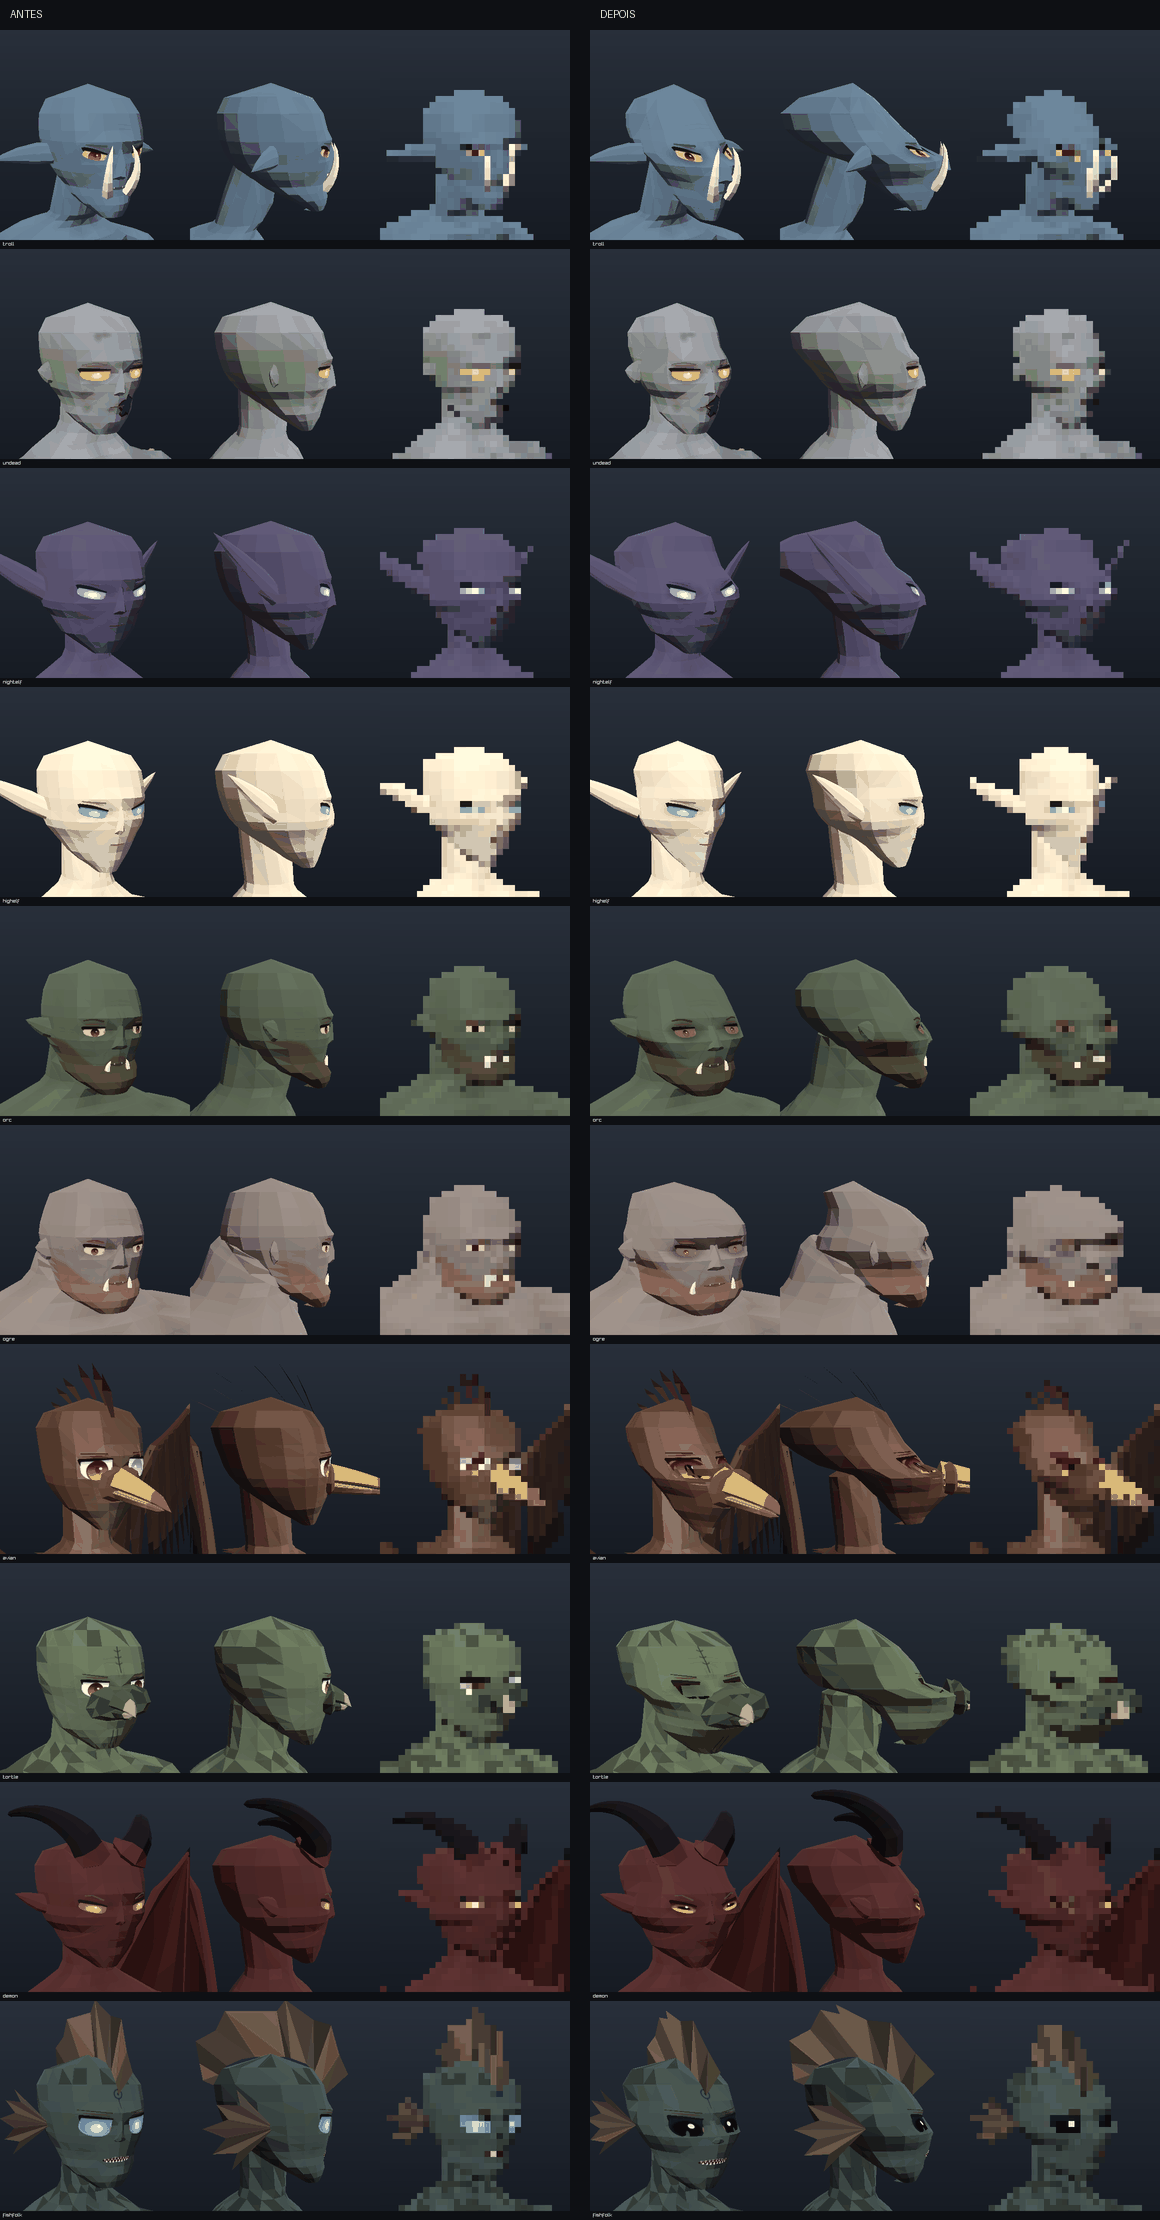
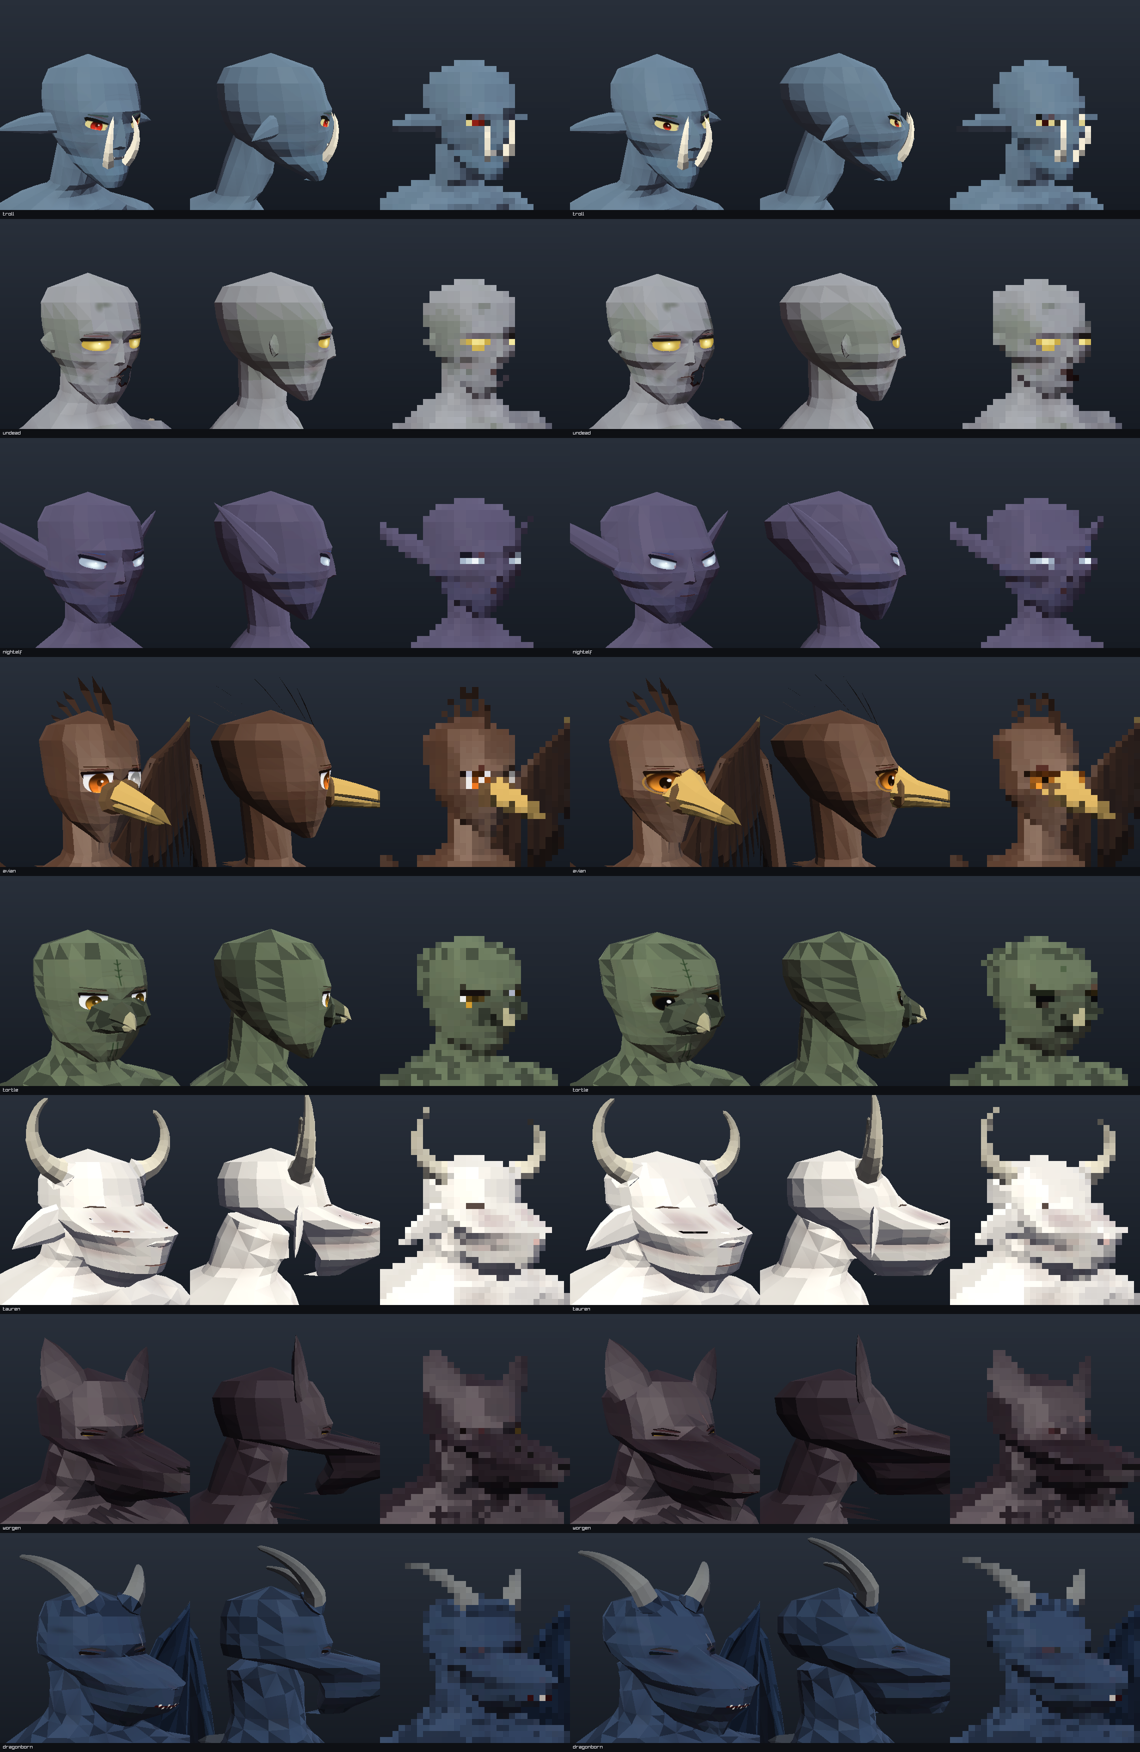
Cohesive skulls: snouts grow from the skull, round avian skull with a rooted beak, gentler forms
Snouted heads get a nose bridge from the brow onto the snout, the jaw stays joined to
the neck and the socket/cheek grooves no longer cut a trench across the muzzle. Avian
and tortle drop the rostrum wedge; the beak swells at its root. Forehead slope and
occiput are softer and the extreme forms (troll, undead, night elf, draenei, naga) toned
down. Cheekbone and temple bands moved off the eye line so the eyes sit on flat skin.

Claude-Session: https://claude.ai/code/session_01F1xmFvDZS1791vgqUGMtaU

diff --git a/src/head.cpp b/src/head.cpp
@@ -23,6 +23,15 @@ void Builder::initHead() {
     hNb_ = Curve{{0, 2.0f}, {0.4f, 2.2f}, {1.0f, 2.1f}};
 }
 
+// Forward push of the muzzle at height s, in head units (0 for flat-faced peoples).
+float Builder::muzzleDepth(float s) const {
+    const float M = g.body.muzzle;
+    if (M <= 0.0f) return 0.0f;
+    if (g.body.snout == 1) return M * 0.72f * smoothstep(0.445f, 0.355f, s) * (0.35f + 0.65f * smoothstep(0.02f, 0.24f, s));
+    if (g.body.snout == 2) return M * 0.62f * smoothstep(0.46f, 0.36f, s) * (0.45f + 0.55f * smoothstep(0.0f, 0.22f, s));
+    return M * 0.46f * smoothstep(0.53f, 0.40f, s) * (0.50f + 0.50f * smoothstep(0.0f, 0.18f, s));
+}
+
 SuperRing Builder::headRing(float s) const {
     const float h = m.h;
     const FaceStyle& f = g.face;
@@ -49,9 +58,7 @@ SuperRing Builder::headRing(float s) const {
     // Wolf: a long, narrow snout from a stop just under the eyes; the lower jaw shorter.
     // Reptile: a long, flat snout from just under the eyes, the jaw nearly as long as it.
     const bool wolf = g.body.snout == 1, reptile = g.body.snout == 2;
-    const float muz = wolf      ? g.body.muzzle * 0.72f * smoothstep(0.445f, 0.355f, s) * (0.35f + 0.65f * smoothstep(0.02f, 0.24f, s))
-                      : reptile ? g.body.muzzle * 0.62f * smoothstep(0.46f, 0.36f, s) * (0.45f + 0.55f * smoothstep(0.0f, 0.22f, s))
-                                : g.body.muzzle * 0.46f * smoothstep(0.53f, 0.40f, s) * (0.50f + 0.50f * smoothstep(0.0f, 0.18f, s));
+    const float muz = muzzleDepth(s);
     const float narrow = wolf || reptile ? 0.30f : 0.22f;
     // Skull construction (HeadForm): the same few landmarks for every people, so a beak,
     // a brute's brow or an elongated cranium are built by the skull itself.
@@ -68,12 +75,12 @@ SuperRing Builder::headRing(float s) const {
     // beak grows from); the jaw under it recedes so the beak, not a chin, ends the face.
     const float ro = k.rostrum * 0.46f * smoothstep(0.50f, 0.38f, s) * (0.55f + 0.45f * smoothstep(0.02f, 0.26f, s));
     wMul *= 1.0f - 0.34f * k.rostrum * smoothstep(0.48f, 0.26f, s);
-    const float occ = k.occiput * 0.32f * bump((s - 0.70f) / 0.27f);
+    const float occ = k.occiput * 0.22f * bump((s - 0.70f) / 0.27f);
     const float nF = hNf_(s) * (1.0f + 0.45f * k.box), nB = hNb_(s) * (1.0f + 0.35f * k.box);
-    return {std::max(hW_(s), 0.01f) * h * g.body.headWidth * wMul * (1.0f - narrow * g.body.muzzle * (wolf ? smoothstep(0.44f, 0.32f, s) : smoothstep(0.5f, 0.3f, s))),
-            (hZc_(s) + chinFwd + 0.5f * muz + 0.5f * ro - 0.08f * slope - 0.5f * occ) * h,
-            std::max(hDf_(s) + chinDrop * 0.5f + full + 0.5f * muz + 0.5f * ro - 0.20f * slope - 0.16f * flat, 0.01f) * h,
-            std::max(hDb_(s) + crownBack - 0.5f * muz - 0.5f * ro + 0.5f * occ - 0.10f * flat, 0.01f) * h,
+    return {std::max(hW_(s), 0.01f) * h * g.body.headWidth * wMul * (1.0f - narrow * g.body.muzzle * (wolf ? smoothstep(0.50f, 0.28f, s) : smoothstep(0.60f, 0.26f, s))),
+            (hZc_(s) + chinFwd + 0.5f * muz + 0.5f * ro - 0.04f * slope - 0.5f * occ) * h,
+            std::max(hDf_(s) + chinDrop * 0.5f + full + 0.5f * muz + 0.5f * ro - 0.14f * slope - 0.16f * flat, 0.01f) * h,
+            std::max(hDb_(s) + crownBack + 0.2f * muz - 0.5f * ro + 0.5f * occ - 0.10f * flat, 0.01f) * h,
             std::max(nF, 1.4f), std::max(nB, 1.4f)};
 }
 
@@ -91,7 +98,9 @@ float Builder::faceRelief(float xn, float s) const {
     const bool four = f.eyePairs >= 2;
     const float browS = four ? 0.600f : 0.56f, eyeS = four ? 0.506f : 0.468f, cheekS = four ? 0.330f : 0.375f;
     r += (0.006f + 0.026f * f.browRidge + 0.008f * f.eyeDepth) * bump((s - browS) / 0.045f) * bump(xn / 0.36f);
-    r -= (0.008f + 0.020f * f.eyeDepth) * bump((s - eyeS) / (four ? 0.045f : 0.055f)) * bump((ax - 0.165f * f.eyeSpacing) / 0.115f);
+    // On a snout the socket groove would cut a trench across the muzzle: keep it shallow.
+    const float snoutK = 1.0f - 0.8f * saturate(muzzleDepth(s) / 0.12f);
+    r -= (0.008f + 0.020f * f.eyeDepth) * snoutK * bump((s - eyeS) / (four ? 0.045f : 0.055f)) * bump((ax - 0.165f * f.eyeSpacing) / 0.115f);
     if (four) {
         // The lower pair sits in a socket as deep as the upper one, under a lid-and-brow
         // ridge of its own, with a lower-lid pad beneath: each eye is framed in bone.
@@ -101,8 +110,8 @@ float Builder::faceRelief(float xn, float s) const {
         r += 0.006f * bump((s - 0.350f) / 0.022f) * bump((ax - ex2) / 0.085f);
     }
     // Cheekbones and the hollow beneath them.
-    r += (0.010f + 0.016f * std::max(0.0f, f.cheek)) * bump((s - cheekS) / 0.05f) * bump((ax - 0.235f) / 0.09f);
-    r -= 0.016f * f.cheekHollow * bump((s - 0.27f) / 0.06f) * bump((ax - 0.22f) / 0.08f);
+    r += (0.010f + 0.016f * std::max(0.0f, f.cheek)) * snoutK * bump((s - cheekS) / 0.05f) * bump((ax - 0.235f) / 0.09f);
+    r -= 0.016f * f.cheekHollow * snoutK * bump((s - 0.27f) / 0.06f) * bump((ax - 0.22f) / 0.08f);
     // Lips, the dip below them, and the chin.
     const float mw = f.mouthWidth;
     r += (0.003f + 0.004f * f.lipFullness) * bump((s - 0.239f) / 0.024f) * bump(xn / (0.075f * mw));
@@ -128,10 +137,22 @@ Vec3 Builder::headPoint(float theta, float s) const {
     const HeadForm& k = g.head;
     if (k.zygoma > 0.0f || k.temples > 0.0f) {
         const float side = smoothstep(-0.35f, 0.25f, sn) * (1.0f - 0.75f * sn * sn * sn * sn);
-        const float dx = (k.zygoma * 0.17f * bump((s - 0.43f) / 0.17f) - k.temples * 0.30f * bump((s - 0.69f) / 0.17f)) * side;
+        const float dx = (k.zygoma * 0.17f * bump((s - 0.37f) / 0.13f) - k.temples * 0.30f * bump((s - 0.73f) / 0.15f)) * side;
         p.x *= 1.0f + dx;
     }
-    if (sn > 0) p.y += faceRelief(p.x / (m.h * g.body.headWidth), s) * m.h * smoothstep(0.0f, 0.6f, sn);
+    if (sn > 0) {
+        const float xn = p.x / (m.h * g.body.headWidth);
+        p.y += faceRelief(xn, s) * m.h * smoothstep(0.0f, 0.6f, sn);
+        // Snouted heads: the bridge of the nose runs from the brow down onto the snout,
+        // so the muzzle grows out of the skull instead of starting at a step under the eyes.
+        if (g.body.muzzle > 0.0f) {
+            const bool wolf = g.body.snout == 1, reptile = g.body.snout == 2;
+            const float sb = wolf ? 0.355f : reptile ? 0.36f : 0.40f, wB = wolf || reptile ? 0.20f : 0.27f;
+            const float ramp = smoothstep(0.64f, sb, s);
+            const float bridge = std::max(0.0f, 0.85f * muzzleDepth(sb) * ramp * std::sqrt(ramp) - muzzleDepth(s));
+            p.y += bridge * m.h * bump(xn / wB) * smoothstep(0.2f, 0.8f, sn);
+        }
+    }
     return m.headOrigin + Vec3{p.x, s * m.h, p.y};
 }
 

diff --git a/src/genome.cpp b/src/genome.cpp
@@ -976,11 +976,11 @@ void applyHead(Genome& g, Species sp, Rng r) {
         case Species::Dwarf:       F = {0.15f, -0.2f, 0.0f, 0.55f, 1.0f, 0.0f, 0.35f, 0.55f, EyeLook::Sunken, 1.12f}; break;
         case Species::Gnome:       F = {0.0f, 0.45f, 0.0f, 0.15f, -0.6f, 0.0f, 0.0f, 0.10f, EyeLook::Classic}; break;
         case Species::Orc:         F = {0.60f, 0.30f, 0.05f, 0.65f, 0.55f, 0.20f, 0.10f, 0.80f, EyeLook::Sunken, 1.08f}; break;
-        case Species::Troll:       F = {0.85f, 0.70f, 0.30f, 0.40f, -0.30f, 0.40f, 0.0f, 0.55f, EyeLook::Beady, 0.92f}; break;
-        case Species::Undead:      F = {0.20f, 0.35f, 0.70f, 0.80f, -0.30f, 0.0f, 0.0f, 1.00f, EyeLook::Glow, 0.94f}; break;
-        case Species::NightElf:    F = {0.55f, 1.00f, 0.30f, 0.55f, 0.30f, 0.0f, 0.0f, 0.60f, EyeLook::Glow, 0.95f}; break;
+        case Species::Troll:       F = {0.40f, 0.30f, 0.15f, 0.40f, -0.20f, 0.12f, 0.0f, 0.55f, EyeLook::Beady, 0.92f}; break;
+        case Species::Undead:      F = {0.15f, 0.15f, 0.40f, 0.60f, 0.20f, 0.0f, 0.25f, 1.00f, EyeLook::Glow, 0.98f}; break;
+        case Species::NightElf:    F = {0.45f, 0.65f, 0.30f, 0.55f, 0.30f, 0.0f, 0.0f, 0.60f, EyeLook::Glow, 0.95f}; break;
         case Species::HighElf:     F = {0.0f, -0.20f, 0.25f, 0.30f, -0.80f, 0.0f, 0.0f, 0.30f, EyeLook::Glow, 0.90f}; break;
-        case Species::Draenei:     F = {0.45f, 0.60f, 0.20f, 0.30f, 0.10f, 0.0f, 0.0f, 0.50f, EyeLook::Glow}; break;
+        case Species::Draenei:     F = {0.35f, 0.45f, 0.20f, 0.30f, 0.10f, 0.0f, 0.0f, 0.50f, EyeLook::Glow}; break;
         case Species::Tauren:      F = {0.40f, 0.0f, 0.0f, 0.30f, 0.50f, 0.0f, 0.50f, 0.40f, EyeLook::Black}; break;
         case Species::Goblin:      F = {0.35f, 0.30f, 0.15f, 0.70f, -0.20f, 0.0f, 0.0f, 0.35f, EyeLook::Beady, 1.04f}; break;
         case Species::Worgen:      F = {0.30f, 0.20f, 0.0f, 0.40f, 0.20f, 0.0f, 0.30f, 0.70f, EyeLook::Glow}; break;
@@ -989,9 +989,9 @@ void applyHead(Genome& g, Species sp, Rng r) {
         case Species::Skeleton:    F = {0.10f, 0.10f, 0.20f, 0.40f, 0.0f, 0.0f, 0.0f, 0.0f, EyeLook::Glow}; break;
         case Species::Dragonborn:  F = {0.50f, 0.45f, 0.10f, 0.40f, 0.30f, 0.0f, 0.40f, 0.60f, EyeLook::Slit}; break;
         case Species::Saurian:     F = {0.70f, 0.30f, 0.20f, 0.20f, 0.0f, 0.0f, 0.60f, 0.30f, EyeLook::Slit}; break;
-        case Species::Avian:       F = {0.35f, 0.55f, 0.0f, 0.10f, -0.60f, 0.50f, 0.0f, 0.20f, EyeLook::Bird, 0.92f}; break;
-        case Species::Naga:        F = {0.60f, 0.30f, 0.20f, 0.85f, 0.0f, 0.25f, 0.85f, 0.40f, EyeLook::Slit, 1.06f}; break;
-        case Species::Tortle:      F = {0.50f, 0.20f, 0.0f, 0.20f, 0.40f, 0.60f, 0.70f, 0.40f, EyeLook::Black, 1.08f}; break;
+        case Species::Avian:       F = {0.10f, 0.35f, 0.0f, 0.10f, -0.70f, 0.0f, 0.0f, 0.20f, EyeLook::Bird, 0.95f}; break;
+        case Species::Naga:        F = {0.40f, 0.20f, 0.20f, 0.70f, 0.0f, 0.15f, 0.60f, 0.40f, EyeLook::Slit, 1.06f}; break;
+        case Species::Tortle:      F = {0.30f, 0.10f, 0.0f, 0.20f, 0.40f, 0.10f, 0.50f, 0.40f, EyeLook::Black, 1.08f}; break;
         case Species::Insectoid:   F = {0.30f, 0.90f, 0.55f, 0.0f, -0.40f, 0.0f, 0.0f, 0.0f, EyeLook::Black, 0.90f}; break;
         case Species::Fishfolk:    F = {0.30f, 0.0f, 0.30f, 0.40f, -0.20f, 0.25f, 0.50f, 0.20f, EyeLook::Black, 1.05f}; break;
         case Species::Demon:       F = {0.50f, 0.25f, 0.55f, 0.85f, 0.30f, 0.0f, 0.0f, 0.60f, EyeLook::Slit}; break;

diff --git a/src/traits.cpp b/src/traits.cpp
@@ -963,7 +963,7 @@ void Builder::buildBeak() {
     const float dep[] =   {0, 0.09f, 0.09f, 0.13f, 0.17f, 0.045f, 0.12f, 0.11f};
     const float droopK[] = {0, 0.12f, 0.18f, 0.12f, 0.28f, 0.02f, 0.2f, 0.12f};
     const float lowK[] =  {0, 0.72f, 0.88f, 0.88f, 0.55f, 0.95f, 0.88f, 0.9f};
-    // The skull's rostrum already carries the beak's root forward, so the keratin is shorter.
+    // A skull with a rostrum already carries the beak's root forward, so the keratin is shorter.
     const float L = len[kind] * h * r.range(0.88f, 1.15f) * (1.0f - 0.15f * g.head.rostrum), W = wid[kind] * h * r.range(0.9f, 1.1f);
     const float D = dep[kind] * h * r.range(0.92f, 1.15f), hk = hook[kind] * r.range(0.8f, 1.2f), droop = droopK[kind] * r.range(0.8f, 1.25f);
     const float taperE = kind == 2 ? 0.7f : kind == 5 ? 0.25f : 0.85f;
@@ -1000,8 +1000,10 @@ void Builder::buildBeak() {
         for (int k = 0; k < n; ++k) {
             const float t = float(k) / float(n);
             const float taper = std::pow(1.0f - t, taperE);
-            float w = widM * taper, dd = depth * (0.35f + 0.65f * taper);
-            if (kind == 5) w = widM * (1.0f - 0.25f * t);  // a broad, round-ended bill
+            // The root swells into the face so the beak grows out of the skull, not off it.
+            const float root = 1.0f - smoothstep(0.0f, 0.45f, t);
+            float w = widM * taper * (1.0f + 0.45f * root), dd = depth * (0.35f + 0.65f * taper) * (1.0f + (upper ? 0.9f : 0.3f) * root);
+            if (kind == 5) w = widM * (1.0f - 0.25f * t) * (1.0f + 0.3f * root);  // a broad, round-ended bill
             // Upper: a rounded ridge on top, flat underneath; lower: the reverse.
             SuperRing sr = upper ? SuperRing{w, 0, dd, 0.25f * dd, 1.6f, 3.0f} : SuperRing{w, 0, 0.25f * dd, dd, 3.0f, 1.6f};
             if (kind == 5) sr.nF = sr.nB = 3.0f;

diff --git a/src/face.cpp b/src/face.cpp
@@ -663,7 +663,7 @@ void paintSkin(CellPainter& cp, const Genome& g) {
         // Socket wells: a darker, tighter shadow round the eye that survives at game distance
         // (a dark well with a light point inside reads as an eye in two or three pixels).
         if (g.head.socket > 0.01f)
-            soft({sd * ex, ey + 0.006f}, {0.125f, f.eyePairs >= 2 ? 0.058f : 0.072f}, {0.42f, 0.36f, 0.40f}, 0.75f * g.head.socket, 0.6f);
+            soft({sd * ex, ey + 0.006f}, {0.125f, f.eyePairs >= 2 ? 0.058f : 0.072f}, {0.42f, 0.36f, 0.40f}, 0.75f * g.head.socket * (1.0f - 0.75f * saturate(g.body.muzzle)), 0.6f);
         soft({sd * 0.075f, ey + 0.012f}, {0.050f, 0.060f}, {0.78f, 0.68f, 0.70f}, 0.25f + 0.35f * f.eyeDepth);  // inner corner
         // Tired, puffy under-eyes.
         soft({sd * (ex + 0.005f), ey - 0.062f}, {0.085f, 0.024f}, {0.80f, 0.70f, 0.78f}, 0.55f * f.eyeBags);

diff --git a/tests/tests.cpp b/tests/tests.cpp
@@ -340,7 +340,9 @@ int main() {
         for (int a = 0; a < np; ++a)
             for (int b = a + 1; b < np; ++b) {
                 const float c = sim(cur, a, b), p = sim(plain, a, b);
-                CHECK(c < 0.92f && c < p - 0.02f, "cabecas de %s e %s parecidas demais: %.2f (cranio humano %.2f)",
+                // Distinct enough outright, or at least clearly more distinct than with the human skull:
+                // the skulls must stay cohesive, so distinctness is not pushed past what reads well.
+                CHECK(c < 0.92f && (c < 0.86f || c < p - 0.02f), "cabecas de %s e %s parecidas demais: %.2f (cranio humano %.2f)",
                       std::string(toString(ps[a])).c_str(), std::string(toString(ps[b])).c_str(), c, p);
             }
     }

diff --git a/src/generator_impl.hpp b/src/generator_impl.hpp
@@ -79,6 +79,7 @@ public:
     Vec3 torsoSurfaceToward(Vec3 p, float* theta = nullptr) const;  // torso surface on the ray from its axis through p
 
     // Head (head.cpp). x in head units (unscaled by headWidth), s from chin.
+    float muzzleDepth(float s) const;            // head units
     SuperRing headRing(float s) const;           // metres, relative to headOrigin
     float faceRelief(float xn, float s) const;   // sculpted features (nose, brow, cheeks, lips), head units
     float headWarp(float phi) const;             // denser angles at the face centre

diff --git a/README.md b/README.md
@@ -73,14 +73,19 @@ dele. `Genome::head` traz os eixos do crânio, todos em zero para o humano:
 
 | campo | o que faz |
 |---|---|
-| `forehead` | a testa recua reta a partir da arcada (brutos, répteis, aves) |
+| `forehead` | a testa recua a partir da arcada (brutos, répteis) |
 | `occiput` | a nuca se alonga para trás (crânios longos: elfo noturno, cefálide, inseto) |
 | `temples` | têmporas pinçadas, a parte de cima do rosto afina (elfos, mortos, espectros) |
 | `zygoma` | maçãs do rosto abertas para os lados (orc, goblin, naga, demônio) |
 | `box` | planos quadrados e blocados (anão, ogro, cristalino) ou arredondados e afinando (alto-elfo, fada) |
-| `rostrum` | o meio do rosto avança em cunha: o bico nasce da ponta dela, não fica colado num rosto humano |
+| `rostrum` | o meio do rosto avança um pouco (prognatismo leve: orc, troll, naga) |
 | `flatTop` | abóbada baixa e achatada (tartaruga, naga, ogro) |
 | `socket` | sombra extra na órbita, para o olho ler como um poço escuro de longe |
+
+Os eixos são contidos de propósito: um crânio coeso vale mais que um crânio diferente a qualquer
+custo. O aviano tem crânio redondo e o bico engrossa na raiz, nascendo da cara. Nos povos de
+focinho, a ponte do nariz desce da testa até o focinho e a mandíbula continua ligada ao pescoço,
+então não há degrau nem buraco sob os olhos; a órbita e as maçãs não cavam sulco no focinho.
 
 E um **vocabulário de olhos** (`EyeLook`) pensado para 2 ou 3 pixels: o que lê de longe é contraste
 de valor (órbita escura com um ponto claro), não desenho.
